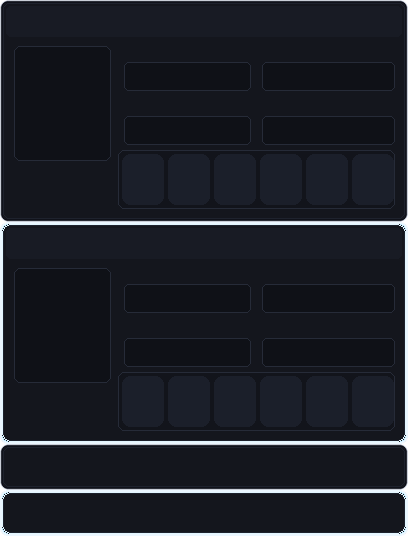
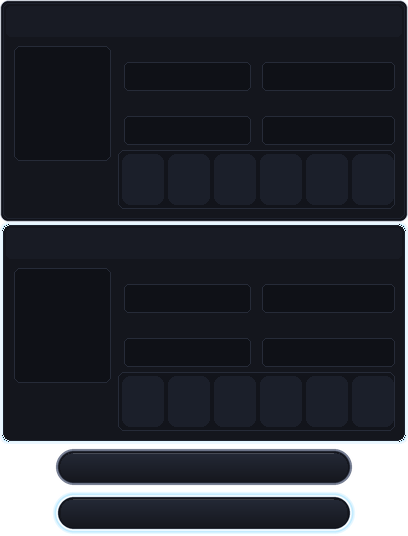
Carga/guardado: sprite del mapa a tamano nativo, botones en capsula y marcos obsidiana forzados en todas las ventanas

Changed region(s): [[0.0, 0.806, 1.0, 1.0]]

diff --git a/tools/ui/gen_menus_noir.py b/tools/ui/gen_menus_noir.py
@@ -45,6 +45,32 @@ def options():
     D.silver_box(im, (8, 304, 504, 376))
     save_to(im, "Graphics/Pictures/optionsNoir.png")
 
+# ---------- botones en cápsula (menú principal y título) ----------
+def pill_button(w, h, selected, box=None):
+    """Cápsula obsidiana con bisel: borde, aro grafito, cuerpo en degradado y reflejo superior.
+    box=(x0,y0,x1,y1) dentro de un lienzo (w,h); la selección añade halo platino-cian."""
+    S4 = 4
+    x0, y0, x1, y1 = box or (0, 0, w - 1, h - 1)
+    big = Image.new("RGBA", (w * S4, h * S4), (0, 0, 0, 0)); d = ImageDraw.Draw(big)
+    def rr(i, col, grow=0):
+        d.rounded_rectangle(((x0 + i - grow) * S4, (y0 + i - grow) * S4, (x1 + 1 - i + grow) * S4 - 1, (y1 + 1 - i + grow) * S4 - 1),
+                            radius=((y1 - y0 + 1) // 2 + grow) * S4, fill=col)
+    if selected:
+        rr(0, (130, 215, 255, 55), 3); rr(0, (130, 215, 255, 120), 1.5)
+    rr(0, (235, 247, 255, 255) if selected else (110, 118, 138, 255))
+    rr(2, (30, 34, 45, 255))
+    rr(3, (21, 23, 30, 255))
+    im = big.resize((w, h), Image.LANCZOS); px = im.load()
+    bh = y1 - y0
+    for y in range(y0 + 3, y1 - 2):                       # degradado del cuerpo
+        t = (y - y0 - 3) / max(1, bh - 6)
+        col = lerp((36, 41, 54, 255), (21, 23, 30, 255), t)
+        for x in range(x0, x1 + 1):
+            if px[x, y][3] > 200 and px[x, y][:3] == (21, 23, 30): px[x, y] = col
+    for x in range(x0 + bh // 2, x1 - bh // 2):           # reflejo de 1 px
+        px[x, y0 + 4] = lerp(px[x, y0 + 4], (255, 255, 255, 255), 0.16)
+    return im
+
 # ---------- carga ----------
 def loadscreen():
     save_to(S.base_bg(), "Graphics/Pictures/loadbg.png")
@@ -68,7 +94,8 @@ def loadscreen():
                 S.box(p, (122 + 46 * i, 154, 163 + 46 * i, 204), hexc("1B1F2A"), None, 8)  # píldoras
         return p
     sheet.paste(panel(222, False), (0, 0)); sheet.paste(panel(222, True), (0, 222))
-    sheet.paste(panel(46, False), (0, 444)); sheet.paste(panel(46, True), (0, 490))
+    for k, sel in ((444, False), (490, True)):             # opciones del menú: cápsulas más estrechas
+        sheet.paste(pill_button(W, 46, sel, (56, 5, 351, 40)), (0, k))
     save_to(sheet, "Graphics/Pictures/loadPanels.png")
 
 # ---------- título ----------
@@ -76,8 +103,7 @@ def title():
     save_to(S.base_bg(), "Graphics/Titles/custom_background.png")
     save_to(Image.new("RGBA", (512, 384), (0, 0, 0, 0)), "Graphics/Titles/custom_plane.png")
     w, h = 250, 34
-    im = Image.new("RGBA", (w, h), (0, 0, 0, 0))
-    S.card(im, (0, 0, w - 1, h - 1), hexc("14161D"))
+    im = pill_button(w, h, True, (3, 3, w - 4, h - 4))
     d = ImageDraw.Draw(im); f = S.font(22)
     t = "PULSA ENTER PARA EMPEZAR"
     hb = d.textbbox((0, 0), "H", font=f); tb = d.textbbox((0, 0), t, font=f)

diff --git a/tools/scripts_dump/rem_ui.rb b/tools/scripts_dump/rem_ui.rb
@@ -2142,11 +2142,26 @@ class PokemonSaveScene
       cw=@sprites["player"].bitmap.width
       ch=@sprites["player"].bitmap.height
       @sprites["player"].src_rect=Rect.new(0,0,cw/4,ch/4)
-      @sprites["player"].zoom_x=2.0
-      @sprites["player"].zoom_y=2.0
-      @sprites["player"].x=6+46-cw/4
-      @sprites["player"].y=6+94-ch/4
+      @sprites["player"].x=6+46-cw/8
+      @sprites["player"].y=6+94-ch/8
       @sprites["player"].z=2
     end
   end
 end
+
+# Todas las ventanas (diálogos, elecciones, menús, monedero...) usan los marcos obsidiana: cualquier setSkin
+# se redirige, así ni \w[...] de un evento ni código antiguo pueden recuperar un marco por defecto.
+class SpriteWindow_Base
+  alias rem_orig_setSkin setSkin
+  def setSkin(skin)
+    name=skin.to_s
+    if name=~/speech|sign|message|text/i
+      skin="Graphics/Windowskins/rem_noir_speech"
+    elsif name!="" && !(name=~/rem_noir/)
+      skin="Graphics/Windowskins/rem_noir_choice"
+    end
+    rem_orig_setSkin(skin)
+  end
+end
+MessageConfig.pbSetSystemFrame(nil)
+MessageConfig.pbSetSpeechFrame(nil)

diff --git a/tools/scripts_dump/src/141_PScreen_Load.rb b/tools/scripts_dump/src/141_PScreen_Load.rb
@@ -165,10 +165,8 @@ class PokemonLoadScene
       charwidth=@sprites["player"].bitmap.width
       charheight=@sprites["player"].bitmap.height
       @sprites["player"].src_rect = Rect.new(0,0,charwidth/4,charheight/4)
-      @sprites["player"].zoom_x=2.0   # REM_UI: sprite del mapa ampliado, centrado en el marco del retrato
-      @sprites["player"].zoom_y=2.0
-      @sprites["player"].x = 48+62 - charwidth/4
-      @sprites["player"].y = 32+103 - charheight/4
+      @sprites["player"].x = 48+62 - charwidth/8   # REM_UI: tamaño nativo, centrado en el marco del retrato
+      @sprites["player"].y = 32+103 - charheight/8
     end
     for i in 0...trainer.party.length
       @sprites["party#{i}"]=PokemonIconSprite.new(trainer.party[i],@viewport)
